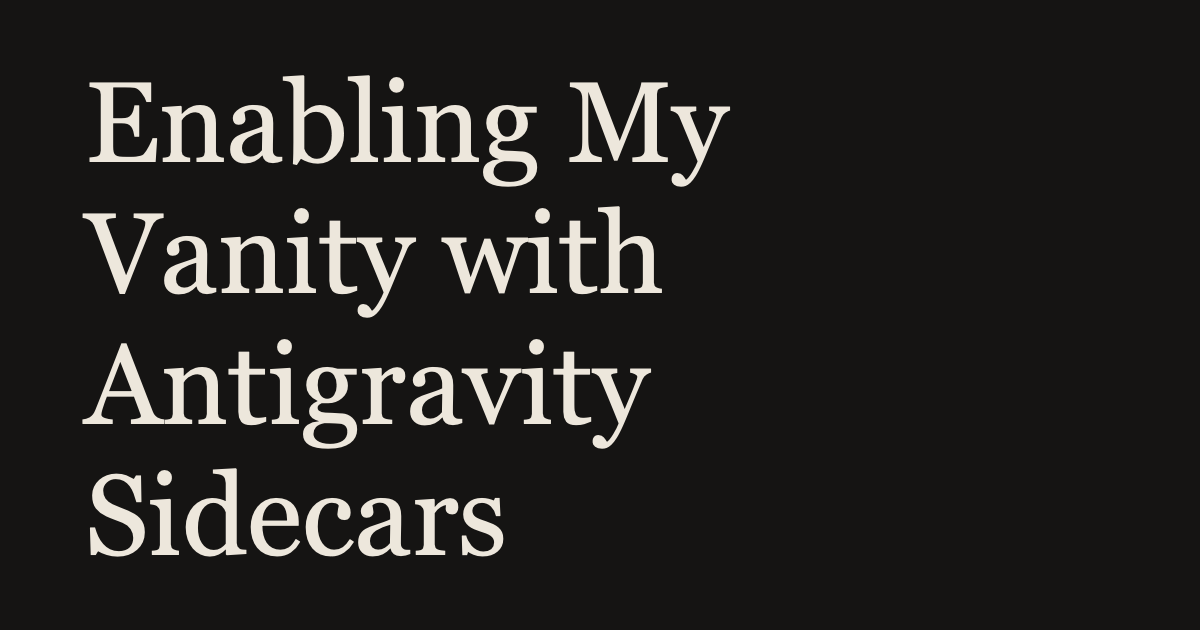
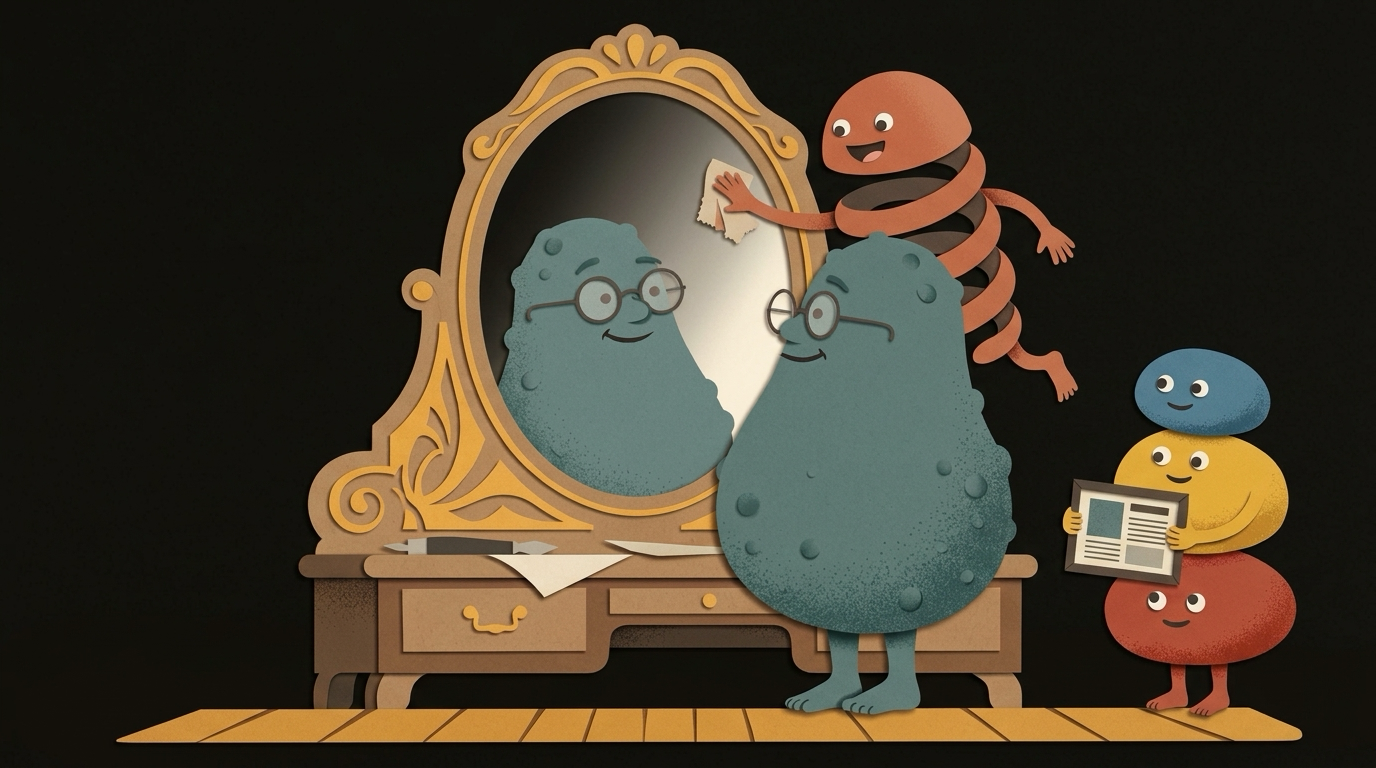
Updating image generation

diff --git a/public/blog/enabling-my-vanity-with-antigravity-sidecars.html b/public/blog/enabling-my-vanity-with-antigravity-sidecars.html
@@ -33,8 +33,8 @@
   <meta property="og:image" content="https://redbrogdon.dev/static/images/blog/enabling-my-vanity-with-antigravity-sidecars.png">
   <meta property="og:image:secure_url" content="https://redbrogdon.dev/static/images/blog/enabling-my-vanity-with-antigravity-sidecars.png">
   <meta property="og:image:type" content="image/png">
-  <meta property="og:image:width" content="1200">
-  <meta property="og:image:height" content="630">
+  <meta property="og:image:width" content="1376">
+  <meta property="og:image:height" content="768">
   <meta property="og:image:alt" content="Enabling My Vanity with Antigravity Sidecars">
 
   <!-- Twitter / X Card -->
@@ -150,7 +150,7 @@
           <h1 class="article-title-image">
             <picture>
               <source srcset="/static/images/blog/enabling-my-vanity-with-antigravity-sidecars-light.png" media="(prefers-color-scheme: dark)">
-              <img src="/static/images/blog/enabling-my-vanity-with-antigravity-sidecars-dark.png" alt="Enabling My Vanity with Antigravity Sidecars" class="blog-header-image" width="600" height="315">
+              <img src="/static/images/blog/enabling-my-vanity-with-antigravity-sidecars-dark.png" alt="Enabling My Vanity with Antigravity Sidecars" class="blog-header-image" width="600" height="335">
             </picture>
           </h1>
           <div class="article-meta">
@@ -225,7 +225,7 @@
           <figure>
             <picture>
               <source srcset="/static/images/blog/sidecar-architecture-dark.svg" media="(prefers-color-scheme: dark)">
-              <img src="/static/images/blog/sidecar-architecture-light.svg" alt="Antigravity Sidecar Pipeline: Deterministic vs. Agentic Workflow" width="720" height="460">
+              <img src="/static/images/blog/sidecar-architecture-light.svg" alt="Antigravity Sidecar Pipeline: Deterministic vs. Agentic Workflow" width="820" height="420">
             </picture>
             <figcaption>Antigravity Sidecar Pipeline: Deterministic plumbing vs. Agentic synthesis</figcaption>
           </figure>
